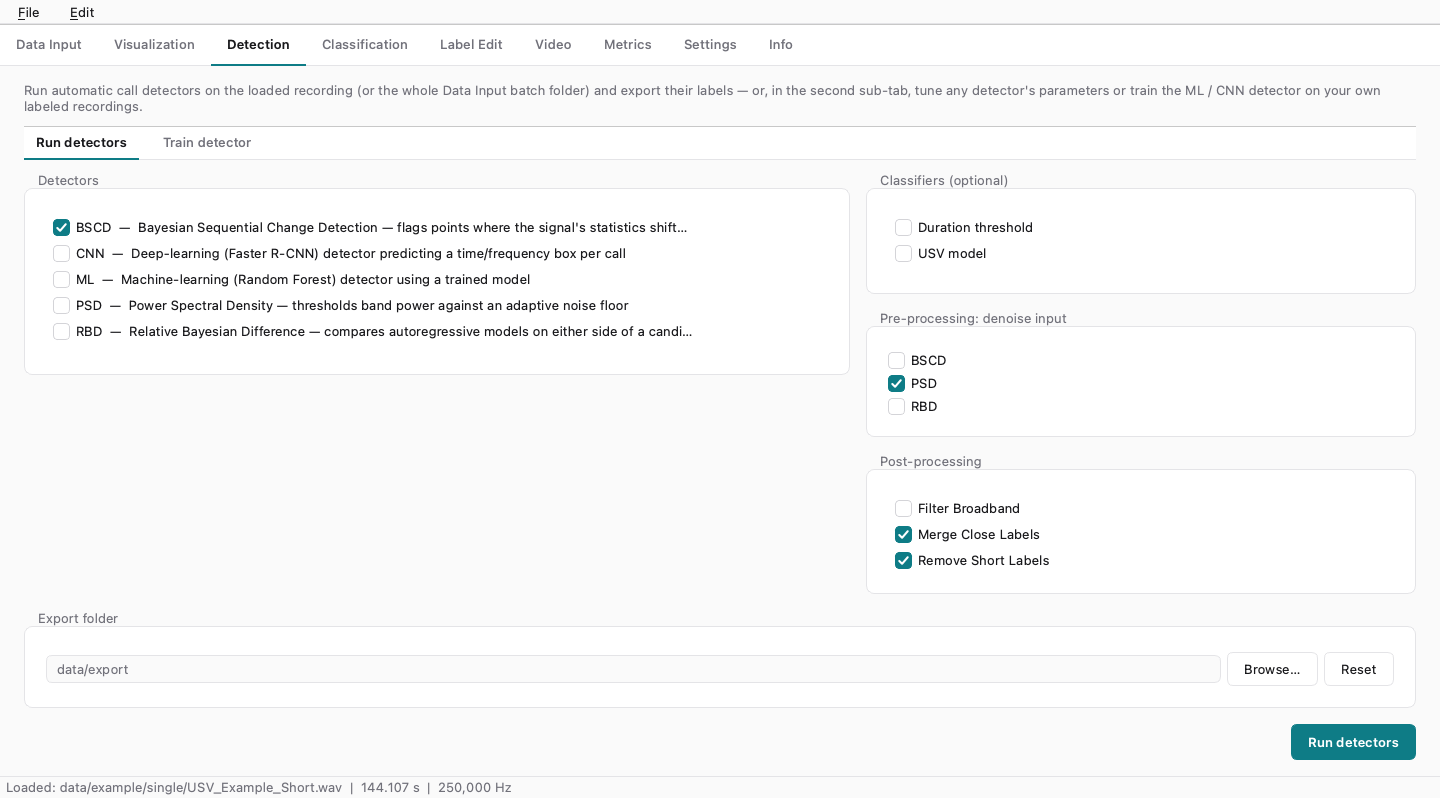
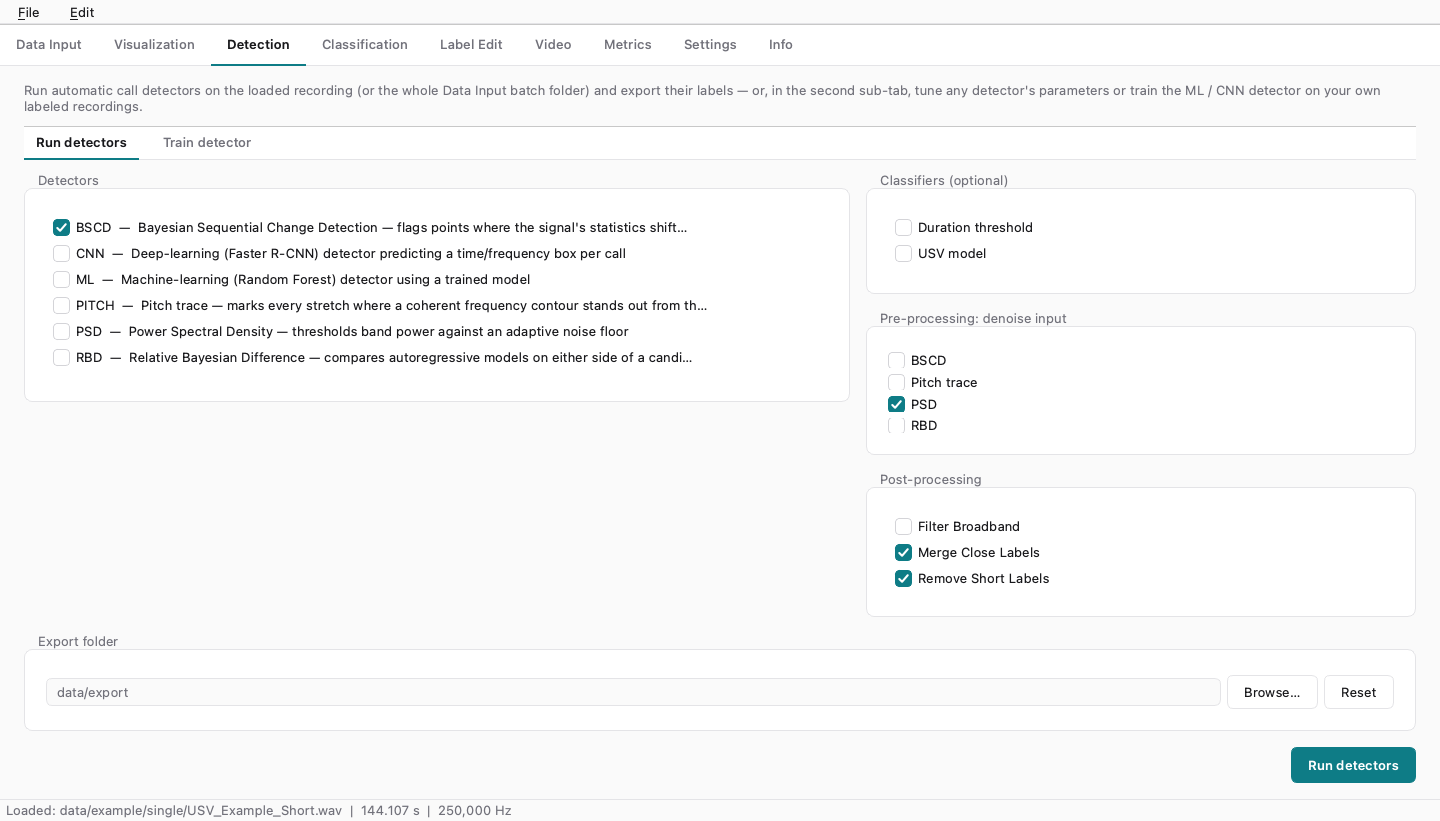
Release 0.1.0
Bump squeak_peek.__version__ (the single source of truth pyproject, the
Info tab and the CLI all read) and close the changelog's Unreleased
section.

Regenerate the documentation screenshots: they predated the Save labels
control, the Metrics tab's automatic scoring, the PITCH detector and the
reference-label colour change, so four of them contradicted their own
captions.

diff --git a/src/squeak_peek/__init__.py b/src/squeak_peek/__init__.py
@@ -1,4 +1,4 @@
 """Squeak Peek Studio — Python port."""
 
-__version__ = "0.0.9"
+__version__ = "0.1.0"
 __author__  = "Antonín Gazda"

diff --git a/CHANGELOG.md b/CHANGELOG.md
@@ -3,7 +3,7 @@
 All notable user-facing changes to Squeak Peek Studio. Format loosely follows
 [Keep a Changelog](https://keepachangelog.com/).
 
-## [Unreleased]
+## [0.1.0] — 2026-10-08
 
 - New **PITCH** detector: one event per stretch where a coherent frequency
   contour stands out from the background — exactly what Visualization draws
